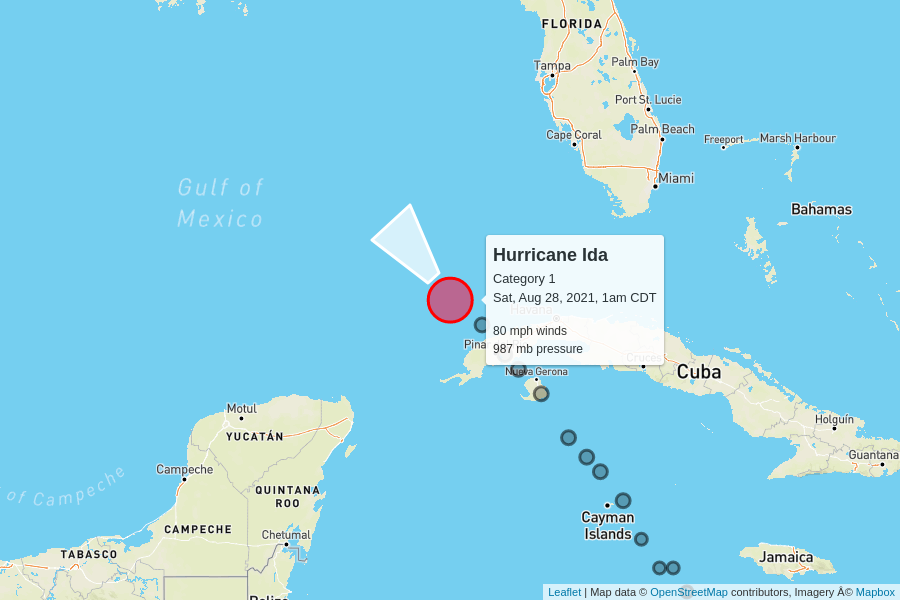
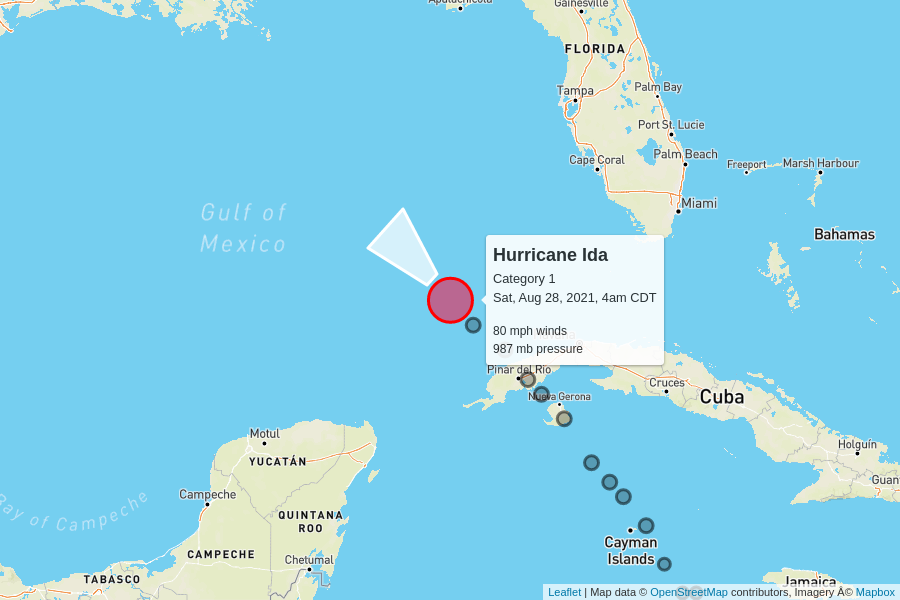
regular update

diff --git a/docs/index.html b/docs/index.html
@@ -95,7 +95,7 @@
         <td colspan="6" class="storm category-1">
           <h2>
             Hurricane Ida - Category 1
-            <p class="updated">last updated   Saturday, August 28, 2021, 1:00 am CDT</p>
+            <p class="updated">last updated   Saturday, August 28, 2021, 4:00 am CDT</p>
           </h2>
         </td>
       </tr>
@@ -112,9 +112,9 @@
         <td>80 mph</td>
         <td>987 mb</td>
         <td>
-          15 mph to the northwest
+          16 mph to the northwest
           <br/>
-          <span style="display: inline-block; font-size: 1.5em; rotate: 320deg;">↑</span>
+          <span style="display: inline-block; font-size: 1.5em; rotate: 315deg;">↑</span>
         </td>
         <td><a href="https://raw.githubusercontent.com/mgwalker/atlantic-hurricanes/main/data/csv/AL092021.csv">AL092021.csv</a></td>
         <td><a href="https://www.nhc.noaa.gov/archive/2021/IDA.shtml?">NHC advisories</a></td>
@@ -123,6 +123,42 @@
         <td class="spacer">
         <td colspan="5">
           <img src="AL092021.png">
+        </td>
+      </tr>
+      
+
+      <tr>
+        <td colspan="6" class="storm category-0">
+          <h2>
+            Tropical Depression Ten
+            <p class="updated">last updated   Saturday, August 28, 2021, 4:00 am CDT</p>
+          </h2>
+        </td>
+      </tr>
+      <tr>
+        <th class="spacer"></th>
+        <th>wind speed</th>
+        <th>central pressure</th>
+        <th>movement</th>
+        <th>data (CSV)</th>
+        <th>National Hurricane Center</th>
+      </tr>
+      <tr>
+        <td class="spacer"></td>
+        <td>35 mph</td>
+        <td>1007 mb</td>
+        <td>
+          7 mph to the north-northwest
+          <br/>
+          <span style="display: inline-block; font-size: 1.5em; rotate: 340deg;">↑</span>
+        </td>
+        <td><a href="https://raw.githubusercontent.com/mgwalker/atlantic-hurricanes/main/data/csv/AL102021.csv">AL102021.csv</a></td>
+        <td><a href="https://www.nhc.noaa.gov/archive/2021/TEN.shtml?">NHC advisories</a></td>
+      </tr>
+      <tr>
+        <td class="spacer">
+        <td colspan="5">
+          <img src="AL102021.png">
         </td>
       </tr>
       
